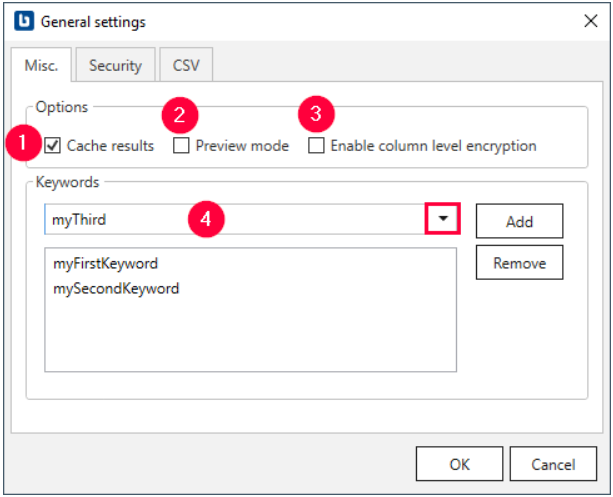
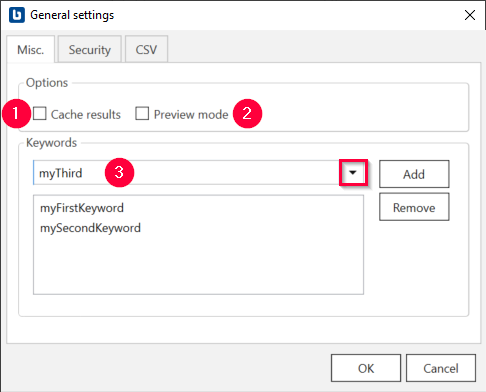
BC: General Settings Update screenshot

Changed region(s): [[0.0, 0.0, 1.0, 1.0], [0.3086, 0.398, 0.3704, 0.4898], [0.216, 0.398, 0.2778, 0.4898]]

diff --git a/content/_en/board-connector/getting-started/general-settings.md b/content/_en/board-connector/getting-started/general-settings.md
@@ -23,7 +23,7 @@ Example:
 The window "General Settings" opens.
 
 
-### Misc. tab
+### Misc. Tab
 The miscellaneous tab consists of two subsections:
 - Options
 - Keywords
@@ -41,13 +41,10 @@ This increases the performance and limits the impact on the SAP system. If this 
 
 If preview mode is activated, only a small portion of data is extracted from SAP or, if extraction is not possible, sample data is generated instead.
 
-**Enable column level encryption** (3)
-
-Coming soon.
 
 #### Keywords
 One or more keywords (Tags) can be set to an extraction. 
-Keywords can be entered directly in the keyword field (4).
+Keywords can be entered directly in the keyword field (3).
 Within the Designer you can use these keywords to filter  extractions. 
 
 {:.box-tip}

diff --git a/content/_de/board-connector/erste-schritte/allgemeine-einstellungen.md b/content/_de/board-connector/erste-schritte/allgemeine-einstellungen.md
@@ -44,14 +44,10 @@ Dies erhöht die Performance und begrenzt die Auswirkungen auf das SAP-System.
 Wenn der Preview-Modus aktiviert ist, wird nur ein kleiner Teil der Daten aus SAP extrahiert oder, falls eine Extraktion nicht möglich ist, werden stattdessen Beispieldaten erzeugt.
 
 
-**Enable column level encryption** (3)
-
-In Kürze verfügbar.
-
 #### Keywords (Schlüsselwörter)
 
 Ein oder mehrere Schlüsselwörter (Tags) können auf eine Extraktion gesetzt werden. 
-Schlüsselwörter können direkt in das Schlüsselwortfeld (4) eingegeben werden.
+Schlüsselwörter können direkt in das Schlüsselwortfeld (3) eingegeben werden.
 Innerhalb des Designers können Sie diese Schlüsselwörter zum Filtern von Extraktionen verwenden. 
 
 {:.box-tip}
